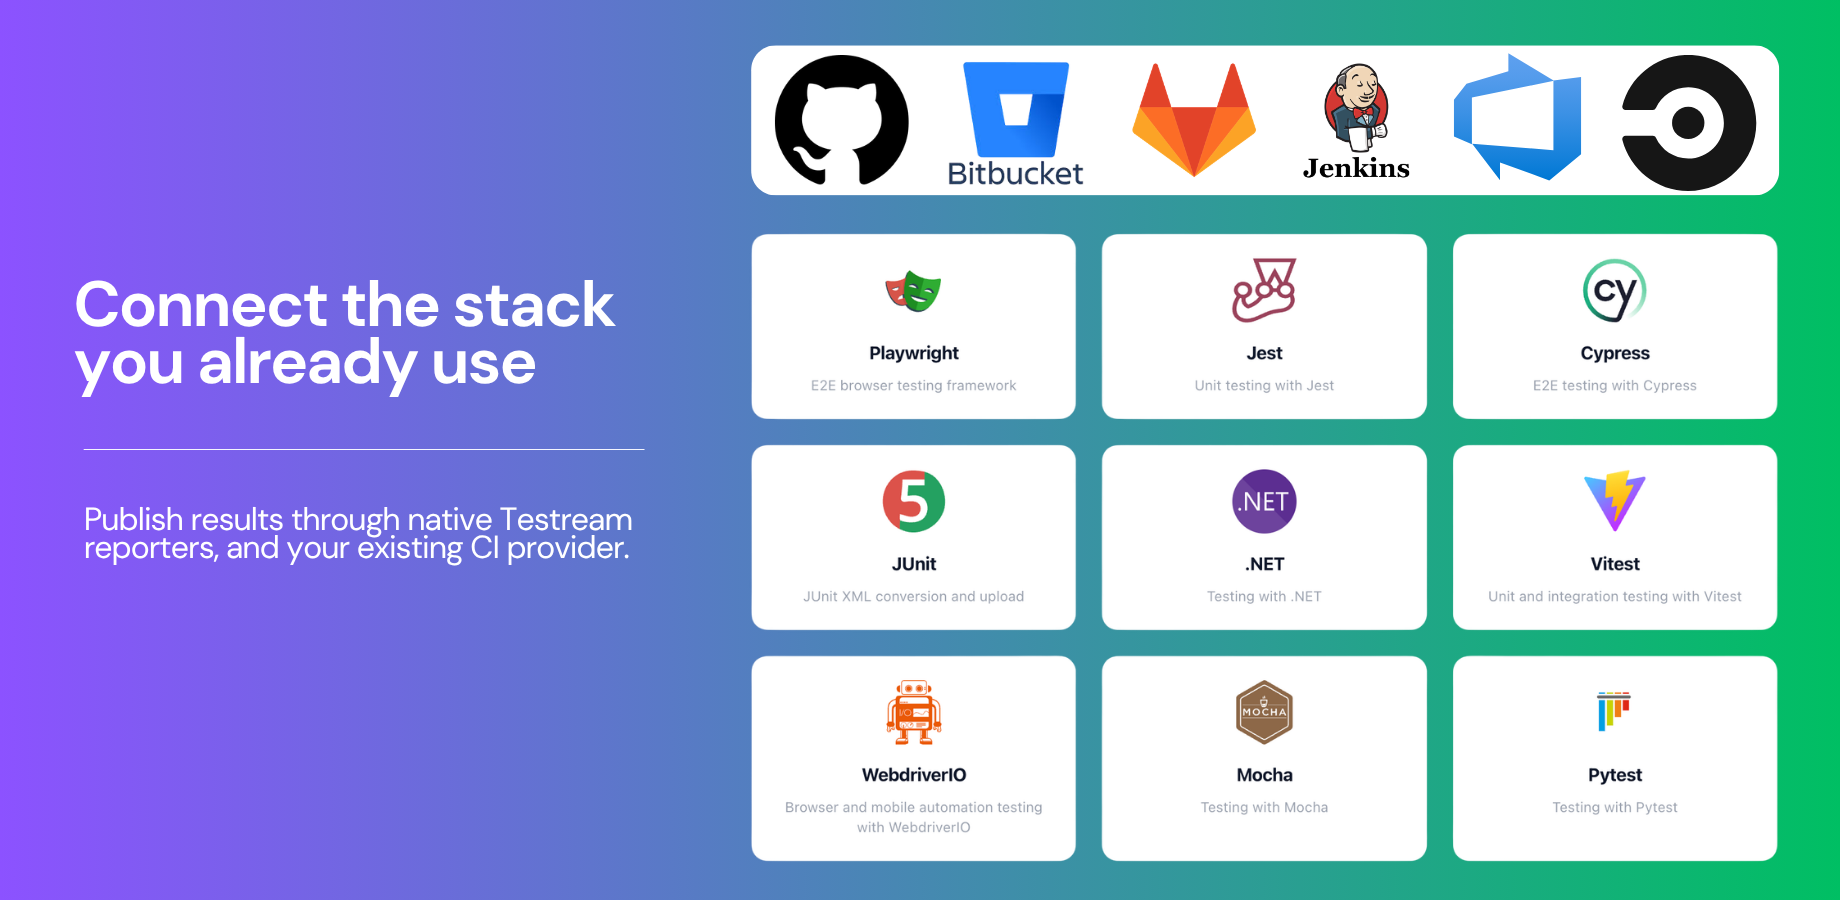
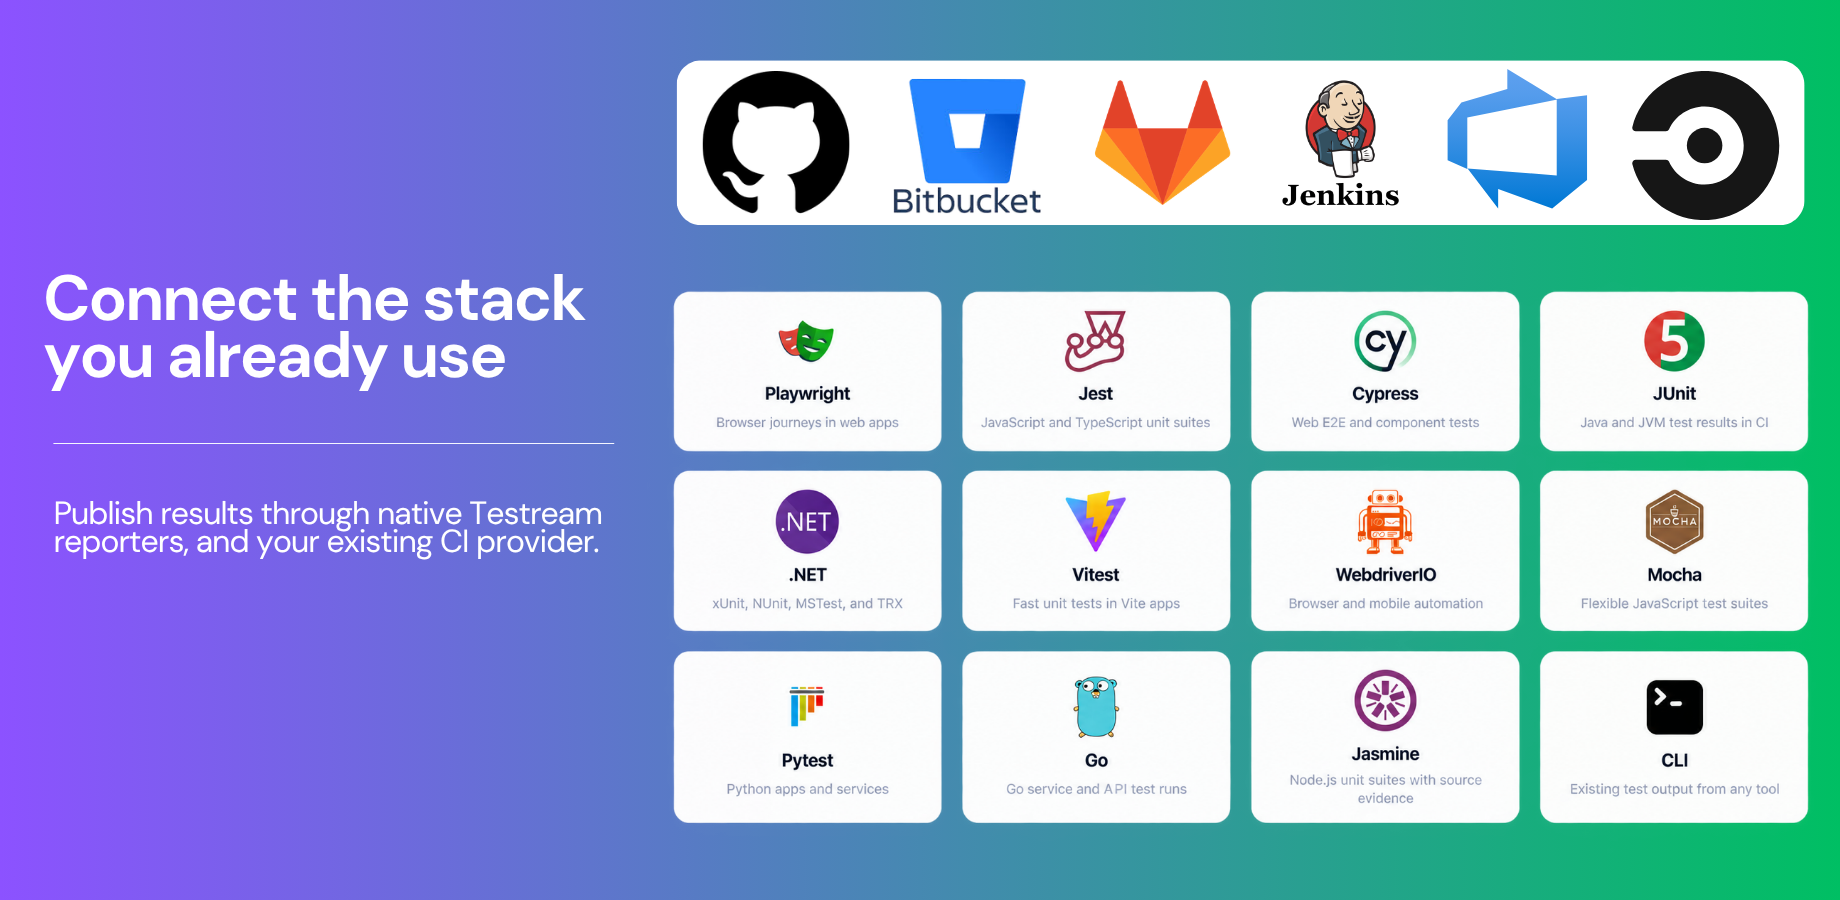
docs: update profile reporter examples

Changed region(s): [[0.0, 0.0311, 0.9913, 0.9644]]

diff --git a/profile/README.md b/profile/README.md
@@ -70,7 +70,7 @@ The result is a shared quality signal inside Jira—one place for teams to inspe
   <img src="./assets/support-frameworks-and-ci.png" alt="Testream supported test frameworks and CI providers" width="100%" />
 </p>
 
-Publish from Playwright, Cypress, Jest, Vitest, Mocha, WebdriverIO, Pytest, JUnit XML, .NET, or any CTRF-producing test stack. Run the publishing step from the command-capable CI provider your team already operates.
+Publish from Playwright, Cypress, Jest, Vitest, Mocha, WebdriverIO, Pytest, JUnit XML, .NET, Go, Jasmine, or any CTRF-producing test stack. Run the publishing step from the command-capable CI provider your team already operates.
 
 <p>
   <a href="https://docs.testream.app/getting-started/installation#reporters">Choose a reporter</a> ·
@@ -92,6 +92,8 @@ Install the package for the test stack you already use, then use the correspondi
 | Pytest | [`@testream/pytest-reporter`](https://www.npmjs.com/package/@testream/pytest-reporter) | [`pytest-jira-reporter`](https://github.com/testream/pytest-jira-reporter) |
 | JUnit XML | [`@testream/junit-reporter`](https://www.npmjs.com/package/@testream/junit-reporter) | [`junit-jira-reporter`](https://github.com/testream/junit-jira-reporter) |
 | .NET | [`@testream/dotnet-reporter`](https://www.npmjs.com/package/@testream/dotnet-reporter) | [`dotnet-jira-reporter`](https://github.com/testream/dotnet-jira-reporter) |
+| Go | [`@testream/go-reporter`](https://www.npmjs.com/package/@testream/go-reporter) | [`go-jira-reporter`](https://github.com/testream/go-jira-reporter) |
+| Jasmine | [`@testream/jasmine-reporter`](https://www.npmjs.com/package/@testream/jasmine-reporter) | [`jasmine-jira-reporter`](https://github.com/testream/jasmine-jira-reporter) |
 | Any CTRF output | [`@testream/cli`](https://www.npmjs.com/package/@testream/cli) | [`ctrf-jira-reporter`](https://github.com/testream/ctrf-jira-reporter) |
 
 Browse the full [Testream npm organization](https://www.npmjs.com/org/testream) or [all public working repositories](https://github.com/orgs/testream/repositories).
